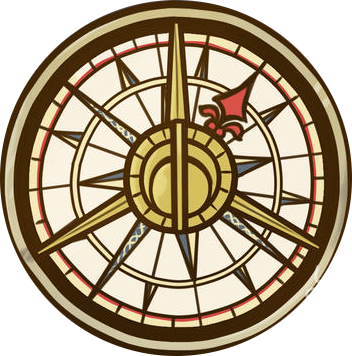
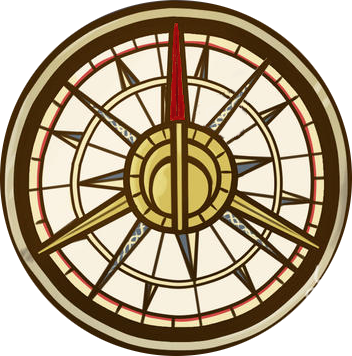
changed compass images

Changed region(s): [[0.5625, 0.1545, 0.7812, 0.4017], [0.4688, 0.0618, 0.5312, 0.3399]]

diff --git a/src/components/Compass.js b/src/components/Compass.js
@@ -3,7 +3,7 @@ import React, { useState, useEffect } from 'react';
 const Compass = ({ bearing }) => {
   return (
     <div style={{position: 'relative'}}>
-      <img src='../../public/full_compass.png'
+      <img src='../../public/new_compass.png'
         style={{
           position: 'relative',
           zIndex: '1',
@@ -12,8 +12,8 @@ const Compass = ({ bearing }) => {
           style={{
             position: 'absolute',
             zIndex: '2',
-            right: "15%",
-            top: '55%',
+            right: "12%",
+            top: '53%',
             transition: 'transform 4s',
             transform: `rotate(${bearing}deg)`,
 

diff --git a/src/components/App.js b/src/components/App.js
@@ -70,10 +70,7 @@ const App = () => {
   }, [position])
 
   return (
-    <div style={{ display: "flex", justifyContent: "center" }} >
-      {console.log('current position: ', position)}
-      Where is the rum? Ah here it is...
-
+    <div style={{ display: "flex", justifyContent: "center"}} >
       <Compass bearing={bearing} />
     </div>
   )
